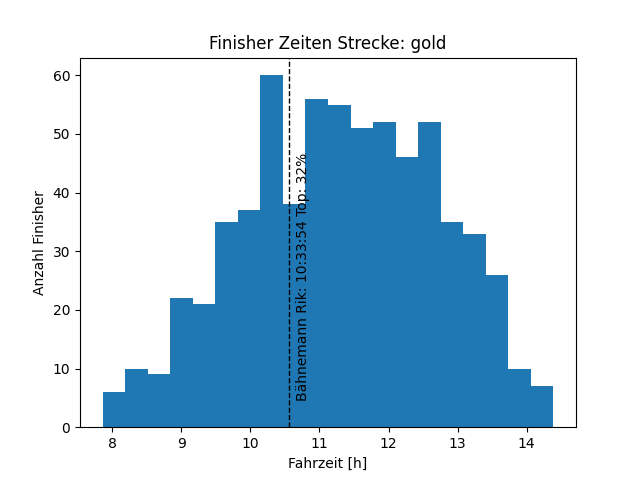
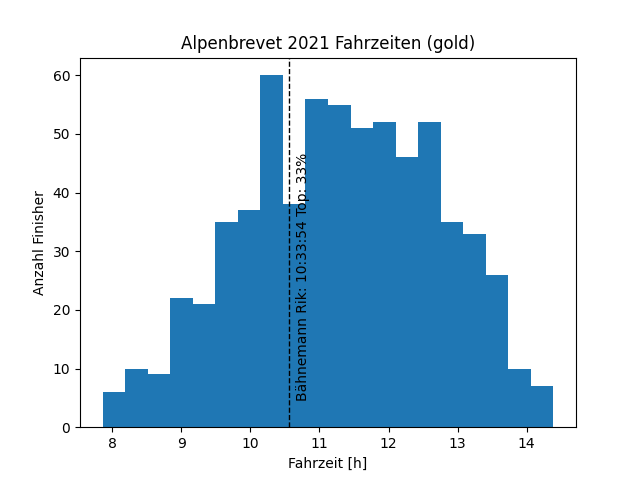
Beautify

Changed region(s): [[0.2812, 0.0625, 0.75, 0.125], [0.4688, 0.3438, 0.5, 0.375]]

diff --git a/stats.py b/stats.py
@@ -1,6 +1,7 @@
 import tabula
 import pandas as pd
 import matplotlib.pyplot as plt
+import math
 
 plt.close("all")
 
@@ -45,10 +46,10 @@ print('Lantern Rouge: ')
 print(df.nlargest(1, 'Fahrzeit[h]')[stat_info])
 
 plt.figure()
-plt.title('Finisher Zeiten Strecke: %s' % (strecke))
+plt.title('Alpenbrevet 2021 Fahrzeiten (%s)' % (strecke))
 
 # Approx. every 20 min one bin.
-num_bins = int((df['Fahrzeit[h]'].max() - df['Fahrzeit[h]'].min()) * 3) + 1
+num_bins = int(math.ceil((df['Fahrzeit[h]'].max() - df['Fahrzeit[h]'].min()) * 3))
 ax = df['Fahrzeit[h]'].plot.hist(bins=num_bins)
 ax.set_xlabel('Fahrzeit [h]')
 ax.set_ylabel('Anzahl Finisher')
@@ -58,11 +59,11 @@ yours = df[df['Startnr'] == start_nr]
 if len(yours):
     plt.axvline(yours['Fahrzeit[h]'].values[0], color='k', linestyle='dashed', linewidth=1)
 
-    top = len(df[df['Fahrzeit[h]'] <= yours['Fahrzeit[h]'].values[0]]) / num_complete * 100
+    top = math.ceil(len(df[df['Fahrzeit[h]'] <= yours['Fahrzeit[h]'].values[0]]) / num_complete * 100)
     print('\n')
     print('Yours: ')
     print(yours[stat_info])
-    print('\nCongratulations, you are in the top %d%% of all finishers in time!' % (top))
+    print('\nCongratulations, you are in the top %d%% of all finishers that passed the last checkpoint (%s) in time!' % (top, last_checkpoint))
 
     your_stats = '%s: %s Top: %d%%' % (yours['Name'].values[0], yours['Fahrzeit'].values[0], top)
     plt.text(yours['Fahrzeit[h]'].values[0] + 0.1, 5, your_stats, rotation=90)

diff --git a/README.md b/README.md
@@ -41,10 +41,10 @@ Yours:
              Name    Jg  Startnr  Fahrzeit
 22  Bähnemann Rik  90.0   1097.0  10:33:54
 
-Congratulations, you are in the top 32% of all finishers in time!
+Congratulations, you are in the top 33% of all finishers that passed the last checkpoint (Oberalp) in time!
 ```
 
 # Dependencies
 ```
-pip3 install tabula pandas matplotlib
+pip3 install tabula pandas matplotlib math
 ```
